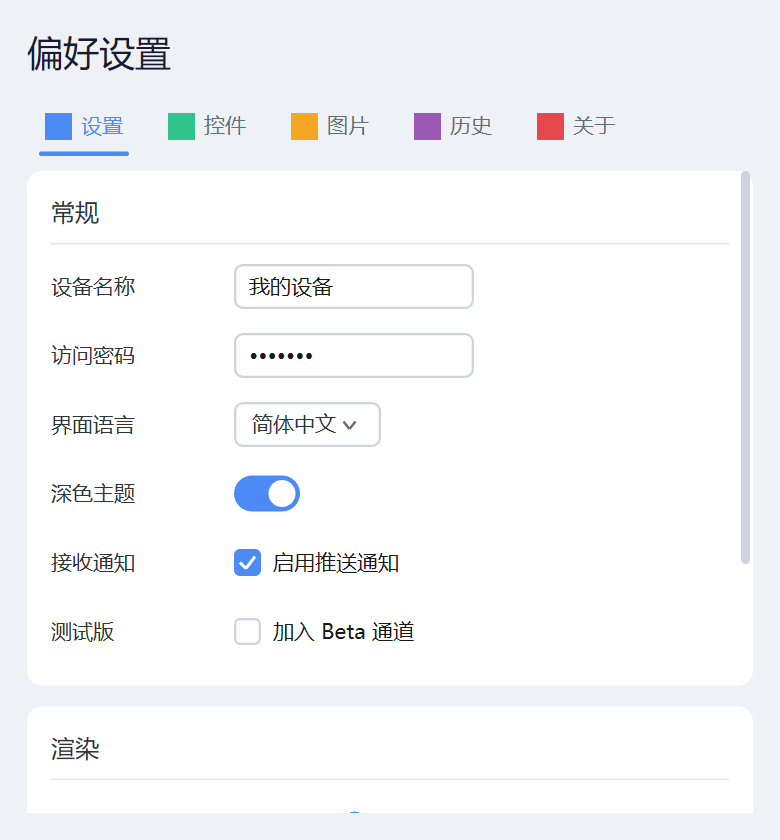
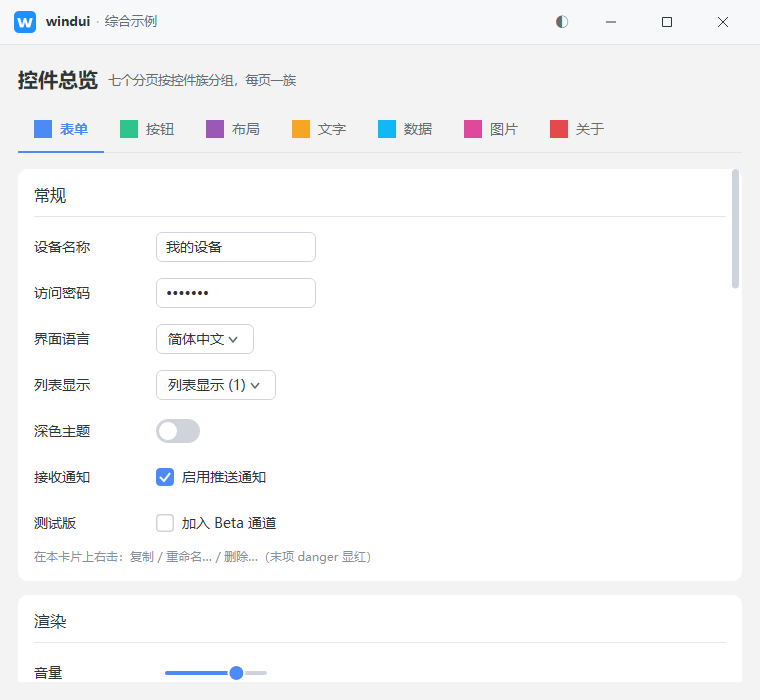
docs(readme): 重排界面预览与示例分类，按新示例重新截图
首图从综合示例的一角换成设置窗：一整个应用外壳（标题栏 + 图标侧栏 + 内容 + 底部
操作栏）比半张卡片更能说明这个库能做出什么。

界面预览保持 2 列表格，去掉重复与过期的：`ime_settings` 和 `settings` 都是"侧栏 +
设置项"、`list` 被 `virtual_list` 覆盖，各留一个；换上模态对话框、虚拟滚动、关于页。
`docs/images/` 里那三张 6-22 生成的旧图随之删除——示例早就改了，图文已不符，其中
`theming.png` 标着「TOML 主题覆盖」，画的却是 border_width 单位对比。

「示例一览」从一长串平铺改成四类表格（完整应用 / 控件与能力 / 数据展示 / 系统集成）。
平铺那版里 `settings` 和 `emoji` 并排，读者无从判断该从哪个入手。

新增 `scripts/readme_shots.ps1` 固化 README 配图的生成，与 `screenshots.ps1` 分工：
那个是回归比对（phase0–5 全量截屏比像素），这个是文档配图（只截 README 摆出来的
那几张，尺寸与点击状态都调过）。脚本里逐条注明了 `--click` 坐标想点中的是什么——
坐标是逻辑像素、依赖示例当前布局，改了窗口尺寸就会打偏，届时按注释重新量。

两个 .ps1 都补了 UTF-8 BOM。Windows PowerShell 5.1 对无 BOM 文件按 ANSI 解码，中文
注释的字节会被误读成引号，把后续几行吞进字符串——症状是脚本退出码 0、却只跑了最后
两条命令。`screenshots.ps1` 一直无 BOM，同样的雷。

diff --git a/README.en.md b/README.en.md
@@ -16,7 +16,7 @@
 `Native platform windows` · `tiny-skia vector rendering` · `Native text shaping` · No runtime · No GC.
 
 <p align="center">
-  <img src="docs/images/fullshowcase.png" width="640" alt="windui comprehensive demo">
+  <img src="docs/images/settings-input.png" width="880" alt="windui settings window: custom title bar + icon sidebar + content + action bar">
 </p>
 
 | Platform | Window / Present | Text |
@@ -55,28 +55,33 @@ For small tools, Electron easily costs hundreds of MB, and Go GUIs need 15–40M
 
 ## Preview
 
-All screenshots below are captured automatically via off-screen rendering (`--screenshot`, see [`scripts/screenshots.ps1`](scripts/screenshots.ps1)).
+Every screenshot below is captured automatically via off-screen rendering (`--screenshot`, see [`scripts/readme_shots.ps1`](scripts/readme_shots.ps1)) with no retouching.
+The main examples all use frameless windows with a self-drawn title bar — **the title bar is part of the widget tree**, laid out and themed exactly like the rest of the window.
 
 <table>
 <tr>
-<td width="50%"><img src="docs/images/ime_settings.png" alt="IME settings scenario"></td>
-<td width="50%"><img src="docs/images/theming.png" alt="Custom theme"></td>
+<td width="50%"><img src="docs/images/fullshowcase.png" alt="Widget tour"></td>
+<td width="50%"><img src="docs/images/theming.png" alt="Theming"></td>
 </tr>
 <tr>
-<td><sub>Real scenario: sidebar nav + segmented control + switches + drill-in rows</sub></td>
-<td><sub>TOML theme override: reskin the same widget set in one shot</sub></td>
+<td><sub>Widget tour: seven tabs grouped by widget family (forms / buttons / layout / text / data / images / about)</sub></td>
+<td><sub>Theming: partial TOML overrides + <code>Role</code>-based coloring, hot-swapped across the whole tree at runtime</sub></td>
 </tr>
 <tr>
-<td><img src="docs/images/image.png" alt="Image and SVG support"></td>
-<td><img src="docs/images/list.png" alt="List widget"></td>
+<td><img src="docs/images/settings-dialog.png" alt="Modal dialog with an editable table"></td>
+<td><img src="docs/images/virtual-list.png" alt="Virtual scrolling"></td>
 </tr>
 <tr>
-<td><sub>Images: PNG/SVG, Fit modes, rounded clipping, monochrome tinting</sub></td>
-<td><sub>List: single-select / highlight / scroll / icons</sub></td>
+<td><sub>Modal dialog: backdrop scrim + titled panel + click-to-edit table cells</sub></td>
+<td><sub>Virtual scrolling: 100k-row list / 10k-row table, only viewport rows are built</sub></td>
 </tr>
 <tr>
-<td><img src="docs/images/dialog.png" alt="Modal dialog"></td>
-<td valign="center"><sub>Modal dialog + multi-tab navigation.<br>See the Widgets table below, or run <code>cargo run --release --example fullshowcase</code> to try it.</sub></td>
+<td><img src="docs/images/image.png" alt="Images and vectors"></td>
+<td><img src="docs/images/about.png" alt="About page"></td>
+</tr>
+<tr>
+<td><sub>Images &amp; vectors: PNG/SVG, Fit modes, rounded clipping, monochrome tinting</sub></td>
+<td><sub>About page: clickable cards + pill badges + outline buttons + toasts</sub></td>
 </tr>
 </table>
 
@@ -137,7 +142,16 @@ cargo test                                                  # run unit tests
 cargo clippy --all-targets                                  # lint
 ```
 
-Examples: `fullshowcase` (comprehensive), `settings` (settings window: sidebar + tables + dialogs), `dyn_list` (data-driven dynamic list), `about` (cards + toasts), `background_task` (cross-thread updates), `animation`, `theming` (TOML themes + runtime switching), `image`, `list`, `dropdown`, `tabs_pill`, `toast`, `progress`, `multiline`, `emoji` (color emoji rendering), `frameless`, `light_titlebar`, `tray`, `hotkey` (global hotkeys + start hidden), `multi_window` (child windows + cross-window shared state), `file_drop`, `ime`, `ime_settings`, plus `phase0`–`phase5` staged demos.
+Examples fall into four groups:
+
+| Group | Examples |
+|-------|----------|
+| **Complete apps** | `settings` (settings window: title bar + icon sidebar + content + action bar + two dialogs), `about` (about page), `ime_settings` (IME settings scenario), `light_titlebar` (installer-style light title bar) |
+| **Widgets & capabilities** | `fullshowcase` (widget tour, seven tabs), `theming` (TOML themes + runtime reskin), `image` (images/SVG), `animation`, `emoji` (color emoji), `caret` (four caret styles) |
+| **Data display** | `virtual_list` (virtual list + table), `virtual_table_server` (server-side paging), `table_pager` (pager bar), `dyn_list` (data-driven dynamic list), `list`, `dropdown`, `tabs_pill`, `toast`, `progress`, `multiline` |
+| **System integration** | `tray` (system tray), `hotkey` (global hotkeys + start hidden), `multi_window` (child windows + shared state), `file_drop`, `frameless` (custom title bar + system menu), `background_task` (cross-thread updates), `ime` |
+
+Plus `phase0`–`phase5` staged demos and the `perfprobe` performance probe, used for development and regression comparison.
 
 ## Architecture
 

diff --git a/README.md b/README.md
@@ -16,7 +16,7 @@
 `平台原生窗口` · `tiny-skia 矢量渲染` · `平台原生文字排版` · 无运行时 · 无 GC。
 
 <p align="center">
-  <img src="docs/images/fullshowcase.png" width="640" alt="windui 综合示例界面">
+  <img src="docs/images/settings-input.png" width="880" alt="windui 设置窗：自绘标题栏 + 图标侧栏 + 内容区 + 底部操作栏">
 </p>
 
 | 平台 | 窗口/呈现 | 文字 |
@@ -55,28 +55,33 @@
 
 ## 界面预览
 
-下列截图全部由离屏渲染自动截取（`--screenshot`，见 [`scripts/screenshots.ps1`](scripts/screenshots.ps1)）。
+下列截图全部由离屏渲染自动截取（`--screenshot`，见 [`scripts/readme_shots.ps1`](scripts/readme_shots.ps1)），未作任何后期修饰。
+主要示例统一走无边框窗口 + 自绘标题栏——**标题栏本身就是控件树的一部分**，和正文用同一套布局与主题。
 
 <table>
 <tr>
-<td width="50%"><img src="docs/images/ime_settings.png" alt="输入法设置场景"></td>
-<td width="50%"><img src="docs/images/theming.png" alt="自定义主题"></td>
+<td width="50%"><img src="docs/images/fullshowcase.png" alt="控件总览"></td>
+<td width="50%"><img src="docs/images/theming.png" alt="主题与换肤"></td>
 </tr>
 <tr>
-<td><sub>真实场景：侧栏导航 + 分段控件 + 开关 + 钻入行</sub></td>
-<td><sub>TOML 主题覆盖：同一套控件一键换肤</sub></td>
+<td><sub>控件总览：七个分页按控件族分组（表单 / 按钮 / 布局 / 文字 / 数据 / 图片 / 关于）</sub></td>
+<td><sub>主题：TOML 部分覆盖 + <code>Role</code> 角色着色，运行期整树热切换</sub></td>
 </tr>
 <tr>
-<td><img src="docs/images/image.png" alt="图片与 SVG 能力"></td>
-<td><img src="docs/images/list.png" alt="列表控件"></td>
+<td><img src="docs/images/settings-dialog.png" alt="模态对话框与可编辑表格"></td>
+<td><img src="docs/images/virtual-list.png" alt="虚拟滚动"></td>
 </tr>
 <tr>
-<td><sub>图片能力：PNG/SVG、Fit 模式、圆角裁剪、单色着色</sub></td>
-<td><sub>列表：单选 / 高亮 / 滚动 / 图标</sub></td>
+<td><sub>模态对话框：背景遮罩 + 带标题栏的面板 + 点单元格即编辑的表格</sub></td>
+<td><sub>虚拟滚动：列表 10 万行 / 表格 1 万行，只构建视口内的行</sub></td>
 </tr>
 <tr>
-<td><img src="docs/images/dialog.png" alt="模态对话框"></td>
-<td valign="center"><sub>模态对话框 + 多标签页导航。<br>更多控件见下方「控件」表，或运行 <code>cargo run --release --example fullshowcase</code> 亲自体验。</sub></td>
+<td><img src="docs/images/image.png" alt="图片与矢量"></td>
+<td><img src="docs/images/about.png" alt="关于页"></td>
+</tr>
+<tr>
+<td><sub>图片与矢量：PNG/SVG、Fit 模式、圆角裁剪、单色着色</sub></td>
+<td><sub>关于页：可点击卡片 + 胶囊徽章 + 描边按钮 + Toast</sub></td>
 </tr>
 </table>
 
@@ -135,7 +140,16 @@ cargo test                                                  # 运行单元测试
 cargo clippy --all-targets                                  # 静态检查
 ```
 
-示例一览：`fullshowcase`（综合）、`settings`（设置窗：侧栏 + 表格 + 对话框）、`dyn_list`（数据驱动动态列表）、`about`（卡片 + Toast）、`background_task`（跨线程更新）、`animation`、`theming`（TOML 主题 + 运行期切换）、`image`、`list`、`dropdown`、`tabs_pill`、`toast`、`progress`、`multiline`、`emoji`（彩色 emoji 渲染）、`frameless`、`light_titlebar`、`tray`、`hotkey`（全局热键 + 启动即隐藏）、`multi_window`（子窗 + 跨窗共享状态）、`file_drop`、`ime`、`ime_settings`，以及 `phase0`–`phase5` 分阶段演示。
+示例按用途分四类：
+
+| 类别 | 示例 |
+|------|------|
+| **完整应用** | `settings`（设置窗：标题栏 + 图标侧栏 + 内容 + 底部操作栏 + 两个对话框）、`about`（关于页）、`ime_settings`（输入法设置场景）、`light_titlebar`（安装器风格的浅色标题栏） |
+| **控件与能力** | `fullshowcase`（控件总览，七个分页）、`theming`（TOML 主题 + 运行期换肤）、`image`（图片/SVG）、`animation`、`emoji`（彩色 emoji）、`caret`（文本光标四风格） |
+| **数据展示** | `virtual_list`（虚拟滚动列表 + 表格）、`virtual_table_server`（服务端分页）、`table_pager`（分页操作栏）、`dyn_list`（数据驱动动态列表）、`list`、`dropdown`、`tabs_pill`、`toast`、`progress`、`multiline` |
+| **系统集成** | `tray`（系统托盘）、`hotkey`（全局热键 + 启动即隐藏）、`multi_window`（子窗 + 跨窗共享状态）、`file_drop`、`frameless`（自定义标题栏 + 系统菜单）、`background_task`（跨线程更新）、`ime` |
+
+另有 `phase0`–`phase5` 分阶段演示与 `perfprobe` 性能探针，供开发与回归比对使用。
 
 ## 架构
 
